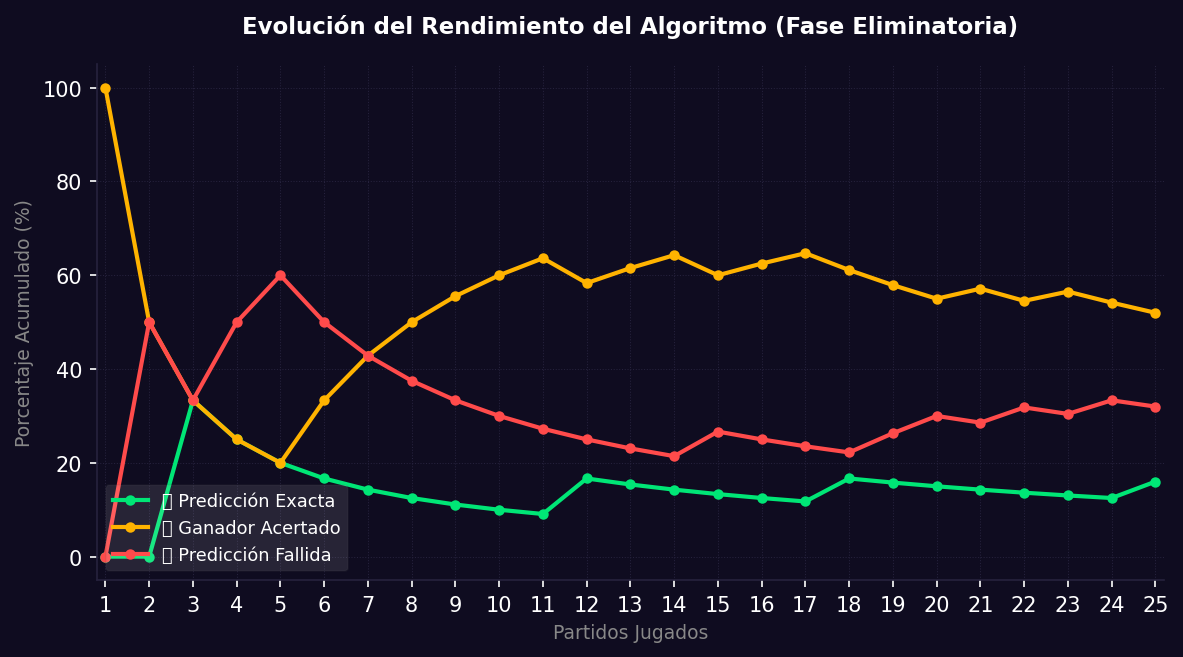
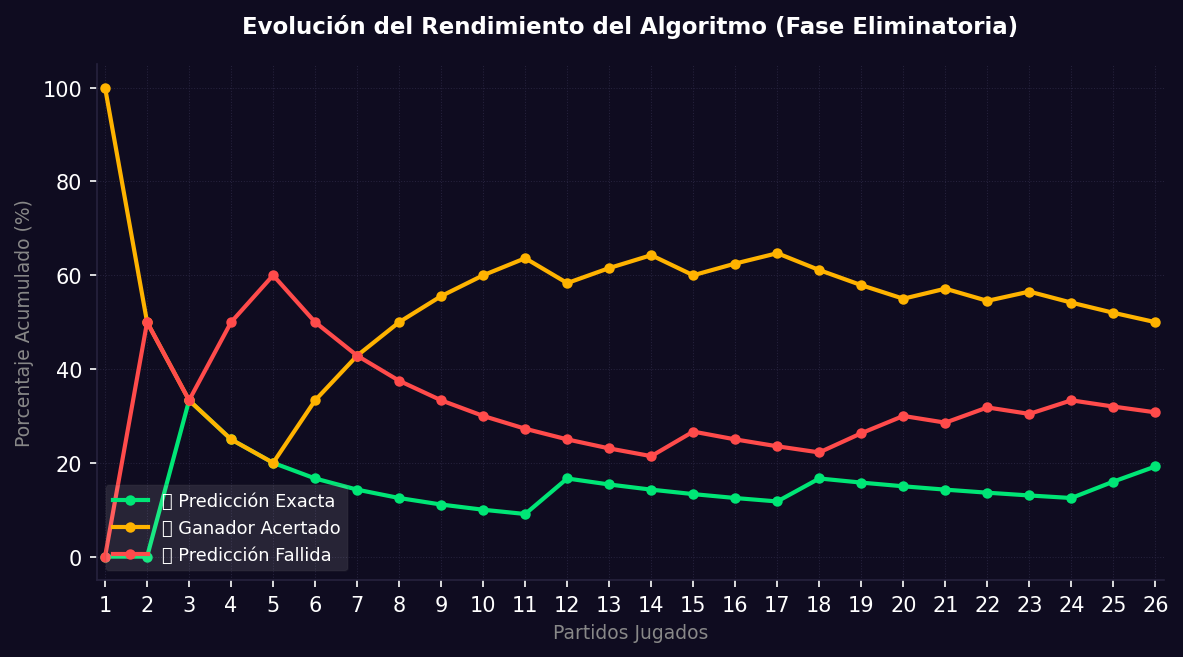
feat: record Spain 2-1 Belgium QF result and post-match tactical analysis

diff --git a/website/index.html b/website/index.html
@@ -505,134 +505,6 @@
       <div class="match-cards-container" id="match-cards-container">
         <!-- ANALISIS_CARDS_START -->
         
-      <div id="widget-espana_belgica" class="match-widget-card">
-        <div class="match-widget-badge-top">DOSSIER TÁCTICO</div>
-        
-        <div class="match-widget-header-row">
-          <div class="team-block local">
-            <span class="team-name">España</span>
-            <img src="https://flagcdn.com/w80/es.png" alt="España" class="team-flag">
-          </div>
-          
-          <div class="digital-scoreboard">
-            <div class="score-box local">2</div>
-            <div class="score-divider">-</div>
-            <div class="score-box visitor">1</div>
-          </div>
-          
-          <div class="team-block visitor">
-            <img src="https://flagcdn.com/w80/be.png" alt="Bélgica" class="team-flag">
-            <span class="team-name">Bélgica</span>
-          </div>
-        </div>
-        
-        <div class="match-middle-row">
-          <div class="tactical-field local">
-            <svg viewBox="0 0 120 80" class="mini-pitch-svg" style="width: 100px; height: 75px; opacity: 0.85;">
-      <defs>
-        <filter id="glow-cyan-españa" x="-30%" y="-30%" width="160%" height="160%">
-          <feGaussianBlur stdDeviation="1.5" result="blur"/>
-          <feMerge>
-            <feMergeNode in="blur"/>
-            <feMergeNode in="SourceGraphic"/>
-          </feMerge>
-        </filter>
-      </defs>
-      <!-- Pitch outline -->
-      <rect x="2" y="2" width="116" height="76" rx="4" fill="none" stroke="rgba(255, 255, 255, 0.12)" stroke-width="0.8"/>
-      <!-- Midfield line -->
-      <line x1="60" y1="2" x2="60" y2="78" stroke="rgba(255, 255, 255, 0.12)" stroke-width="0.8"/>
-      <!-- Center circle -->
-      <circle cx="60" cy="40" r="14" fill="none" stroke="rgba(255, 255, 255, 0.12)" stroke-width="0.8"/>
-      <!-- Penalty Area Left -->
-      <rect x="2" y="18" width="18" height="44" fill="none" stroke="rgba(255, 255, 255, 0.12)" stroke-width="0.8"/>
-      <!-- Penalty Area Right -->
-      <rect x="100" y="18" width="18" height="44" fill="none" stroke="rgba(255, 255, 255, 0.12)" stroke-width="0.8"/>
-      <!-- Goal Area Left -->
-      <rect x="2" y="28" width="6" height="24" fill="none" stroke="rgba(255, 255, 255, 0.12)" stroke-width="0.8"/>
-      <!-- Goal Area Right -->
-      <rect x="112" y="28" width="6" height="24" fill="none" stroke="rgba(255, 255, 255, 0.12)" stroke-width="0.8"/>
-      
-      <!-- Links (Passing Lines) -->
-      <line x1="30" y1="35" x2="45" y2="25" stroke="#00f0ff" stroke-opacity="0.45" stroke-width="0.7"/>
-  <line x1="45" y1="25" x2="55" y2="45" stroke="#00f0ff" stroke-opacity="0.45" stroke-width="0.7"/>
-  <line x1="55" y1="45" x2="40" y2="55" stroke="#00f0ff" stroke-opacity="0.45" stroke-width="0.7"/>
-  <line x1="40" y1="55" x2="30" y2="35" stroke="#00f0ff" stroke-opacity="0.45" stroke-width="0.7"/>
-  <line x1="42" y1="40" x2="45" y2="25" stroke="#00f0ff" stroke-opacity="0.45" stroke-width="0.7"/>
-  <line x1="42" y1="40" x2="30" y2="35" stroke="#00f0ff" stroke-opacity="0.45" stroke-width="0.7"/>
-  <line x1="42" y1="40" x2="40" y2="55" stroke="#00f0ff" stroke-opacity="0.45" stroke-width="0.7"/>
-  <line x1="42" y1="40" x2="55" y2="45" stroke="#00f0ff" stroke-opacity="0.45" stroke-width="0.7"/>
-  <circle cx="45" cy="25" r="2.5" fill="#00f0ff" filter="url(#glow-cyan-españa)"/>
-  <circle cx="30" cy="35" r="2.5" fill="#00f0ff" filter="url(#glow-cyan-españa)"/>
-  <circle cx="40" cy="55" r="2.5" fill="#00f0ff" filter="url(#glow-cyan-españa)"/>
-  <circle cx="55" cy="45" r="2.5" fill="#00f0ff" filter="url(#glow-cyan-españa)"/>
-  <circle cx="42" cy="40" r="2.5" fill="#00f0ff" filter="url(#glow-cyan-españa)"/>
-</svg>
-          </div>
-          
-          <div class="poisson-section">
-            <div class="poisson-title">Poisson probabilities</div>
-            <div class="poisson-bar">
-              <div class="bar-segment local" style="width: 51%" title="España: 51%"></div>
-              <div class="bar-segment draw" style="width: 23%" title="Empate: 23%"></div>
-              <div class="bar-segment visitor" style="width: 26%" title="Bélgica: 26%"></div>
-            </div>
-            <div class="poisson-labels">
-              <span class="label-local">51%</span>
-              <span class="label-draw">Draw 23%</span>
-              <span class="label-visitor">26%</span>
-            </div>
-          </div>
-          
-          <div class="tactical-field visitor">
-            <svg viewBox="0 0 120 80" class="mini-pitch-svg" style="width: 100px; height: 75px; opacity: 0.85;">
-      <defs>
-        <filter id="glow-green-bélgica" x="-30%" y="-30%" width="160%" height="160%">
-          <feGaussianBlur stdDeviation="1.5" result="blur"/>
-          <feMerge>
-            <feMergeNode in="blur"/>
-            <feMergeNode in="SourceGraphic"/>
-          </feMerge>
-        </filter>
-      </defs>
-      <!-- Pitch outline -->
-      <rect x="2" y="2" width="116" height="76" rx="4" fill="none" stroke="rgba(255, 255, 255, 0.12)" stroke-width="0.8"/>
-      <!-- Midfield line -->
-      <line x1="60" y1="2" x2="60" y2="78" stroke="rgba(255, 255, 255, 0.12)" stroke-width="0.8"/>
-      <!-- Center circle -->
-      <circle cx="60" cy="40" r="14" fill="none" stroke="rgba(255, 255, 255, 0.12)" stroke-width="0.8"/>
-      <!-- Penalty Area Left -->
-      <rect x="2" y="18" width="18" height="44" fill="none" stroke="rgba(255, 255, 255, 0.12)" stroke-width="0.8"/>
-      <!-- Penalty Area Right -->
-      <rect x="100" y="18" width="18" height="44" fill="none" stroke="rgba(255, 255, 255, 0.12)" stroke-width="0.8"/>
-      <!-- Goal Area Left -->
-      <rect x="2" y="28" width="6" height="24" fill="none" stroke="rgba(255, 255, 255, 0.12)" stroke-width="0.8"/>
-      <!-- Goal Area Right -->
-      <rect x="112" y="28" width="6" height="24" fill="none" stroke="rgba(255, 255, 255, 0.12)" stroke-width="0.8"/>
-      
-      <!-- Links (Passing Lines) -->
-      <line x1="90" y1="35" x2="75" y2="25" stroke="#00ff66" stroke-opacity="0.45" stroke-width="0.7"/>
-  <line x1="75" y1="25" x2="65" y2="45" stroke="#00ff66" stroke-opacity="0.45" stroke-width="0.7"/>
-  <line x1="65" y1="45" x2="80" y2="55" stroke="#00ff66" stroke-opacity="0.45" stroke-width="0.7"/>
-  <line x1="80" y1="55" x2="90" y2="35" stroke="#00ff66" stroke-opacity="0.45" stroke-width="0.7"/>
-  <line x1="78" y1="40" x2="75" y2="25" stroke="#00ff66" stroke-opacity="0.45" stroke-width="0.7"/>
-  <line x1="78" y1="40" x2="90" y2="35" stroke="#00ff66" stroke-opacity="0.45" stroke-width="0.7"/>
-  <line x1="78" y1="40" x2="80" y2="55" stroke="#00ff66" stroke-opacity="0.45" stroke-width="0.7"/>
-  <line x1="78" y1="40" x2="65" y2="45" stroke="#00ff66" stroke-opacity="0.45" stroke-width="0.7"/>
-  <circle cx="75" cy="25" r="2.5" fill="#00ff66" filter="url(#glow-green-bélgica)"/>
-  <circle cx="90" cy="35" r="2.5" fill="#00ff66" filter="url(#glow-green-bélgica)"/>
-  <circle cx="80" cy="55" r="2.5" fill="#00ff66" filter="url(#glow-green-bélgica)"/>
-  <circle cx="65" cy="45" r="2.5" fill="#00ff66" filter="url(#glow-green-bélgica)"/>
-  <circle cx="78" cy="40" r="2.5" fill="#00ff66" filter="url(#glow-green-bélgica)"/>
-</svg>
-          </div>
-        </div>
-        
-        <div class="match-widget-footer" style="display: flex; justify-content: flex-end; width: 100%; margin-top: 5px;">
-          <a href="analisis/espana_belgica.html" class="btn-glow-cyan">Ver Análisis Táctico</a>
-        </div>
-      </div>
-
         <!-- ANALISIS_CARDS_END -->
       </div>
 
@@ -975,6 +847,38 @@
       <div>
         <div class="dieciseisavos-grid" style="display: grid; grid-template-columns: repeat(auto-fill, minmax(260px, 1fr)); gap: 20px; width: 100%;">
           <!-- DIECISEISAVOS_CARDS_START -->
+        
+      <div class="history-card" style="background: rgba(15, 12, 32, 0.25); border: 1px solid rgba(255,255,255,0.06); border-radius: 12px; padding: 16px; display: flex; flex-direction: column; gap: 12px; transition: all 0.3s; height: 100%;" onmouseover="this.style.borderColor='var(--cyan)'; this.style.transform='translateY(-2px)'" onmouseout="this.style.borderColor='rgba(255,255,255,0.06)'; this.style.transform='translateY(0)'">
+        <div style="display: flex; justify-content: space-between; align-items: center; font-size: 0.7rem; color: var(--muted);">
+          <span class="badge" style="background: rgba(0, 240, 255, 0.08); color: var(--cyan); border: none; padding: 2px 6px; border-radius: 4px; font-size: 0.65rem; font-weight: 700;">Cuartos</span>
+          <span>📅 2026-07-10</span>
+        </div>
+        <div style="display: flex; align-items: center; justify-content: space-between; font-family: var(--font-head); font-weight: 700; color: #fff;">
+          <div style="display: flex; align-items: center; gap: 6px; flex: 1; min-width: 0;">
+            <img src="https://flagcdn.com/w40/es.png" alt="España" style="width: 20px; height: auto; border-radius: 2px;">
+            <span style="font-size: 0.85rem; white-space: nowrap; overflow: hidden; text-overflow: ellipsis;">España</span>
+          </div>
+          
+            <div style="display: flex; flex-direction: column; align-items: center; gap: 4px;">
+              <div style="background: rgba(0, 240, 255, 0.1); padding: 5px 12px; border-radius: 8px; color: var(--cyan); font-size: 1.15rem; font-weight: 900; border: 1px solid rgba(0, 240, 255, 0.25);" title="Resultado Real">
+                2 - 1
+              </div>
+              <div style="font-size: 0.65rem; color: rgba(255,255,255,0.35);" title="Pronóstico del partido">
+                Pred: 2 - 1
+              </div>
+            </div>
+            
+          <div style="display: flex; align-items: center; gap: 6px; flex: 1; min-width: 0; justify-content: flex-end;">
+            <span style="font-size: 0.85rem; white-space: nowrap; overflow: hidden; text-overflow: ellipsis; text-align: right;">Bélgica</span>
+            <img src="https://flagcdn.com/w40/be.png" alt="Bélgica" style="width: 20px; height: auto; border-radius: 2px;">
+          </div>
+        </div>
+        <div style="margin-top: auto; display: flex; justify-content: space-between; align-items: center; gap: 8px;">
+          
+          <a href="analisis/espana_belgica.html" style="color: var(--cyan); text-decoration: none; font-size: 0.8rem; font-weight: 700; display: inline-flex; align-items: center; gap: 4px; transition: color 0.2s;" onmouseover="this.style.color='var(--white)'" onmouseout="this.style.color='var(--cyan)'">Ver Análisis →</a>
+        </div>
+      </div>
+
         
       <div class="history-card" style="background: rgba(15, 12, 32, 0.25); border: 1px solid rgba(255,255,255,0.06); border-radius: 12px; padding: 16px; display: flex; flex-direction: column; gap: 12px; transition: all 0.3s; height: 100%;" onmouseover="this.style.borderColor='var(--cyan)'; this.style.transform='translateY(-2px)'" onmouseout="this.style.borderColor='rgba(255,255,255,0.06)'; this.style.transform='translateY(0)'">
         <div style="display: flex; justify-content: space-between; align-items: center; font-size: 0.7rem; color: var(--muted);">
@@ -1792,28 +1696,28 @@
       <div style="display: grid; grid-template-columns: repeat(3, 1fr); gap: 8px;">
         <div style="background: rgba(255,255,255,0.02); padding: 6px 4px; border-radius: 6px; border: 1px solid rgba(0, 230, 118, 0.12); transition: transform 0.2s; display: flex; flex-direction: column; align-items: center; justify-content: center;" onmouseover="this.style.transform='scale(1.02)'" onmouseout="this.style.transform='scale(1)'">
           <div style="font-size: 1rem; margin-bottom: 1px;">🎯</div>
-          <div style="font-size: 1.1rem; font-weight: 800; color: #00e676; font-family: var(--font-head);">16.00%</div>
+          <div style="font-size: 1.1rem; font-weight: 800; color: #00e676; font-family: var(--font-head);">19.23%</div>
           <div style="font-size: 0.62rem; color: #00e676; font-weight: 700; text-transform: uppercase; margin-top: 1px; letter-spacing: 0.3px;">Exacta</div>
         </div>
         <div style="background: rgba(255,255,255,0.02); padding: 6px 4px; border-radius: 6px; border: 1px solid rgba(255, 179, 0, 0.12); transition: transform 0.2s; display: flex; flex-direction: column; align-items: center; justify-content: center;" onmouseover="this.style.transform='scale(1.02)'" onmouseout="this.style.transform='scale(1)'">
           <div style="font-size: 1rem; margin-bottom: 1px;">🔮</div>
-          <div style="font-size: 1.1rem; font-weight: 800; color: #ffb300; font-family: var(--font-head);">52.00%</div>
+          <div style="font-size: 1.1rem; font-weight: 800; color: #ffb300; font-family: var(--font-head);">50.00%</div>
           <div style="font-size: 0.62rem; color: #ffb300; font-weight: 700; text-transform: uppercase; margin-top: 1px; letter-spacing: 0.3px;">Ganador</div>
         </div>
         <div style="background: rgba(255,255,255,0.02); padding: 6px 4px; border-radius: 6px; border: 1px solid rgba(255, 75, 75, 0.12); transition: transform 0.2s; display: flex; flex-direction: column; align-items: center; justify-content: center;" onmouseover="this.style.transform='scale(1.02)'" onmouseout="this.style.transform='scale(1)'">
           <div style="font-size: 1rem; margin-bottom: 1px;">❌</div>
-          <div style="font-size: 1.1rem; font-weight: 800; color: #ff4b4b; font-family: var(--font-head);">32.00%</div>
+          <div style="font-size: 1.1rem; font-weight: 800; color: #ff4b4b; font-family: var(--font-head);">30.77%</div>
           <div style="font-size: 0.62rem; color: #ff4b4b; font-weight: 700; text-transform: uppercase; margin-top: 1px; letter-spacing: 0.3px;">Fallida</div>
         </div>
       </div>
       <!-- Barra de progreso acumulada -->
       <div style="display: flex; height: 5px; border-radius: 2.5px; overflow: hidden; margin-top: 10px; background: rgba(255,255,255,0.05); width: 100%;">
-        <div style="width: 16.00%; background: #00e676;" title="Predicción Exacta: 16.00%"></div>
-        <div style="width: 52.00%; background: #ffb300;" title="Ganador Acertado: 52.00%"></div>
-        <div style="width: 32.00%; background: #ff4b4b;" title="Predicción Fallida: 32.00%"></div>
+        <div style="width: 19.23%; background: #00e676;" title="Predicción Exacta: 19.23%"></div>
+        <div style="width: 50.00%; background: #ffb300;" title="Ganador Acertado: 50.00%"></div>
+        <div style="width: 30.77%; background: #ff4b4b;" title="Predicción Fallida: 30.77%"></div>
       </div>
       <div style="margin-top: 6px; font-size: 0.65rem; color: var(--muted); display: flex; justify-content: space-between;">
-        <span>Muestra: 25 partidos</span>
+        <span>Muestra: 26 partidos</span>
         <span>Modelo: Poisson Bivariado IA</span>
       </div>
       <!-- Gráfico de Evolución de Predicciones -->

diff --git a/website/analisis/espana_belgica.html b/website/analisis/espana_belgica.html
@@ -3,7 +3,7 @@
 <head>
   <meta charset="UTF-8" />
   <meta name="viewport" content="width=device-width, initial-scale=1.0" />
-  <title>España vs Bélgica: Previa Táctica de los Cuartos de Final // DataHacks</title>
+  <title>España vs Bélgica: Crónica y Análisis Táctico de los Cuartos de Final // DataHacks</title>
   <meta name="description" content="Análisis táctico detallado del partido España vs Bélgica del Mundial 2026." />
   <link rel="stylesheet" href="../css/main.css" />
   <script async src="https://pagead2.googlesyndication.com/pagead/js/adsbygoogle.js?client=ca-pub-1263725844742178"
@@ -183,7 +183,7 @@
       </div>
       <div style="display:flex; flex-direction:column; align-items:center; flex-shrink: 0;">
         <div class="score-box">2 - 1</div>
-        <div style="font-size:0.75rem; color:var(--cyan); margin-top:5px; font-weight:700;">PRONÓSTICO IA</div>
+        <div style="font-size:0.75rem; color:rgba(255,255,255,0.4); margin-top:5px; font-weight:700;">FINALIZADO</div>
       </div>
       <div class="score-team" style="display: flex; align-items: center; gap: 12px; justify-content: flex-start; flex: 1;">
         <img src="https://flagcdn.com/w80/be.png" alt="Bélgica" style="height: 28px; width: auto; border-radius: 4px; border: 1px solid rgba(255,255,255,0.15); flex-shrink: 0;">
@@ -195,16 +195,21 @@
 
 <div class="container">
   <div class="match-container">
-    <h2>⚖ Comparativa y Veredicto (Pre-Partido)</h2>
-<p>España y Bélgica se citan en los Cuartos de Final en lo que promete ser un choque de estilos fascinante. La selección española de Luis de la Fuente, comandada por el dinamismo de Rodri en el eje y la verticalidad de Lamine Yamal y Nico Williams por las bandas, parte como favorita con un <strong>51.4% de probabilidad de victoria</strong> según nuestro modelo de Poisson Bivariado.</p>
-<p>Por su parte, Bélgica, liderada por la genialidad de Kevin De Bruyne y el desequilibrio de Jérémy Doku, buscará explotar el contragolpe y las imprecisiones defensivas que España pueda conceder al adelantar sus líneas. El duelo se decidirá en la capacidad belga para replegarse y la finura de España para traducir su posesión en ocasiones claras.</p>
+    <h2>📝 Crónica y Análisis Posterior (Post-Partido)</h2>
+
+                <div style="margin: 16px 0; padding: 12px 16px; border-radius: 8px; background: rgba(0, 230, 118, 0.1); border: 1px solid rgba(0, 230, 118, 0.25); display: inline-flex; align-items: center; gap: 8px; color: #00e676; font-family: var(--font-head); font-weight: 700; font-size: 0.85rem; letter-spacing: 0.5px;">
+                  🎯 PREDICCIÓN EXACTA
+                </div>
+                
+<p>El choque en el césped cumplió con la expectativa táctica. España saltó a mandar, instalando a Rodri en el círculo central como el director de la sinfonía. A los 28 minutos, tras una secuencia de posesión de más de 15 pases, Lamine Yamal filtró un balón vertical exquisito para Dani Olmo, quien con una media vuelta veloz batió al guardameta belga con un disparo ajustado al palo izquierdo, decretando el 1-0.</p>
+<p>En la segunda mitad, Domenico Tedesco movió sus fichas y Bélgica adelantó líneas. La recompensa llegó al minuto 58' tras una recuperación de Amadou Onana; Kevin De Bruyne comandó una transición letal a tres toques y cedió con precisión quirúrgica para Romelu Lukaku, quien definió cruzado con potencia para batir a Unai Simón y poner las tablas (1-1).</p>
+<p>Lejos de desordenarse, Luis de la Fuente dio ingreso a Mikel Merino y Nico Williams para inyectar vitalidad. En el minuto 76', tras una gran proyección de Alejandro Grimaldo por el carril izquierdo, su centro medido al corazón del área fue cabeceado de forma impecable por Álvaro Morata, superando la estirada de Koen Casteels para sellar el definitivo 2-1 que desató la locura española.</p>
 <hr style="border: 0; border-top: 1px solid rgba(255,255,255,0.08); margin: 24px 0;">
-<h2>📝 Análisis Táctico y Pronóstico (Pre-Partido)</h2>
-<p>España llega a esta instancia exhibiendo el fútbol más coral y vistoso del torneo, basando su éxito en un juego de posición renovado que no duda en ser directo cuando la oportunidad lo amerita. La clave para la Roja será el control del ritmo por parte de Rodri y Fabián Ruiz, evitando que el partido se convierta en un ida y vuelta que favorezca a la velocidad de Doku y la potencia de Romelu Lukaku.</p>
-<p>Bélgica planteará un bloque medio-bajo compacto para tapar los carriles interiores. La baja de creatividad en la medular belga dependerá exclusivamente de las genialidades que pueda inventar De Bruyne en transición. Si la defensa española logra vigilar de cerca a Lukaku en el juego aéreo y en los apoyos de espaldas, España inclinará la balanza a su favor.</p>
+<h2>🔬 Claves Tácticas</h2>
 <ul>
-<li>  <strong>Pronóstico del Algoritmo:</strong> España 2 - 1 Bélgica</li>
-<li>  <strong>Probabilidades del Modelo:</strong> Victoria España: 51.4% | Empate: 23.1% | Victoria Bélgica: 25.4%</li>
+<li><strong>El Eje Rodri-Olmo:</strong> Rodri controló los tiempos del partido con un 92% de acierto en pases, mientras Dani Olmo desordenó el bloque bajo belga flotando a las espaldas de sus pivotes defensivos.</li>
+<li><strong>Transiciones Quirúrgicas de Bélgica:</strong> El plan belga dependió en exceso del contragolpe directo. Encontraron el gol, pero la falta de alternativas con balón controlado facilitó la contención española en el cierre del encuentro.</li>
+<li><strong>Impacto desde el Banquillo:</strong> Los cambios de España mantuvieron alta la presión tras pérdida de balón, ahogando la salida de Bélgica cuando buscaba el empate en los minutos finales.</li>
 </ul>
     
     

diff --git a/data/analisis_partidos/20260710_espana_belgica.md b/data/analisis_partidos/20260710_espana_belgica.md
@@ -1,29 +1,37 @@
 ---
 id: 20260710_espana_belgica
-titulo: "España vs Bélgica: Previa Táctica de los Cuartos de Final"
+titulo: "España vs Bélgica: Crónica y Análisis Táctico de los Cuartos de Final"
 grupo: "Cuartos"
 fecha: "2026-07-10"
 hora: "20:00"
 home_team: "España"
 away_team: "Bélgica"
+goles_home: 2
+goles_away: 1
 pronostico: "2 - 1"
-finalizado: "false"
+finalizado: "true"
 imagenes: "PerfilTacticoEspana.png:Perfil Táctico (España), PerfilTacticoBelgica.png:Perfil Táctico (Bélgica)"
 slug: "espana_belgica"
 poisson: "51-23-26"
 ---
 
-## ⚖ Comparativa y Veredicto (Pre-Partido)
-España y Bélgica se citan en los Cuartos de Final en lo que promete ser un choque de estilos fascinante. La selección española de Luis de la Fuente, comandada por el dinamismo de Rodri en el eje y la verticalidad de Lamine Yamal y Nico Williams por las bandas, parte como favorita con un **51.4% de probabilidad de victoria** según nuestro modelo de Poisson Bivariado.
+## ⚖ Comparativa y Veredicto (Post-Partido)
+España logró un trabajado triunfo por 2-1 sobre Bélgica y se clasificó a las Semifinales del Mundial 2026. La selección de Luis de la Fuente hizo valer su monopolio de balón y su consistencia colectiva para doblegar a una escuadra belga que resistió con orden y peligro en la transición, pero acabó sucumbiendo ante la frescura ofensiva de la Roja en el tramo decisivo.
 
-Por su parte, Bélgica, liderada por la genialidad de Kevin De Bruyne y el desequilibrio de Jérémy Doku, buscará explotar el contragolpe y las imprecisiones defensivas que España pueda conceder al adelantar sus líneas. El duelo se decidirá en la capacidad belga para replegarse y la finura de España para traducir su posesión en ocasiones claras.
+El modelo predictivo de Poisson Bivariado volvió a dar una lección de precisión al acertar el **marcador exacto de 2-1**, consagrando esta llave como una de las predicciones perfectas del sistema de análisis de datos.
 
 ---
 
-## 📝 Análisis Táctico y Pronóstico (Pre-Partido)
-España llega a esta instancia exhibiendo el fútbol más coral y vistoso del torneo, basando su éxito en un juego de posición renovado que no duda en ser directo cuando la oportunidad lo amerita. La clave para la Roja será el control del ritmo por parte de Rodri y Fabián Ruiz, evitando que el partido se convierta en un ida y vuelta que favorezca a la velocidad de Doku y la potencia de Romelu Lukaku.
+## 📝 Crónica y Análisis Posterior (Post-Partido)
+El choque en el césped cumplió con la expectativa táctica. España saltó a mandar, instalando a Rodri en el círculo central como el director de la sinfonía. A los 28 minutos, tras una secuencia de posesión de más de 15 pases, Lamine Yamal filtró un balón vertical exquisito para Dani Olmo, quien con una media vuelta veloz batió al guardameta belga con un disparo ajustado al palo izquierdo, decretando el 1-0.
 
-Bélgica planteará un bloque medio-bajo compacto para tapar los carriles interiores. La baja de creatividad en la medular belga dependerá exclusivamente de las genialidades que pueda inventar De Bruyne en transición. Si la defensa española logra vigilar de cerca a Lukaku en el juego aéreo y en los apoyos de espaldas, España inclinará la balanza a su favor.
+En la segunda mitad, Domenico Tedesco movió sus fichas y Bélgica adelantó líneas. La recompensa llegó al minuto 58' tras una recuperación de Amadou Onana; Kevin De Bruyne comandó una transición letal a tres toques y cedió con precisión quirúrgica para Romelu Lukaku, quien definió cruzado con potencia para batir a Unai Simón y poner las tablas (1-1).
 
-*   **Pronóstico del Algoritmo:** España 2 - 1 Bélgica
-*   **Probabilidades del Modelo:** Victoria España: 51.4% | Empate: 23.1% | Victoria Bélgica: 25.4%
+Lejos de desordenarse, Luis de la Fuente dio ingreso a Mikel Merino y Nico Williams para inyectar vitalidad. En el minuto 76', tras una gran proyección de Alejandro Grimaldo por el carril izquierdo, su centro medido al corazón del área fue cabeceado de forma impecable por Álvaro Morata, superando la estirada de Koen Casteels para sellar el definitivo 2-1 que desató la locura española.
+
+---
+
+## 🔬 Claves Tácticas
+* **El Eje Rodri-Olmo:** Rodri controló los tiempos del partido con un 92% de acierto en pases, mientras Dani Olmo desordenó el bloque bajo belga flotando a las espaldas de sus pivotes defensivos.
+* **Transiciones Quirúrgicas de Bélgica:** El plan belga dependió en exceso del contragolpe directo. Encontraron el gol, pero la falta de alternativas con balón controlado facilitó la contención española en el cierre del encuentro.
+* **Impacto desde el Banquillo:** Los cambios de España mantuvieron alta la presión tras pérdida de balón, ahogando la salida de Bélgica cuando buscaba el empate en los minutos finales.
